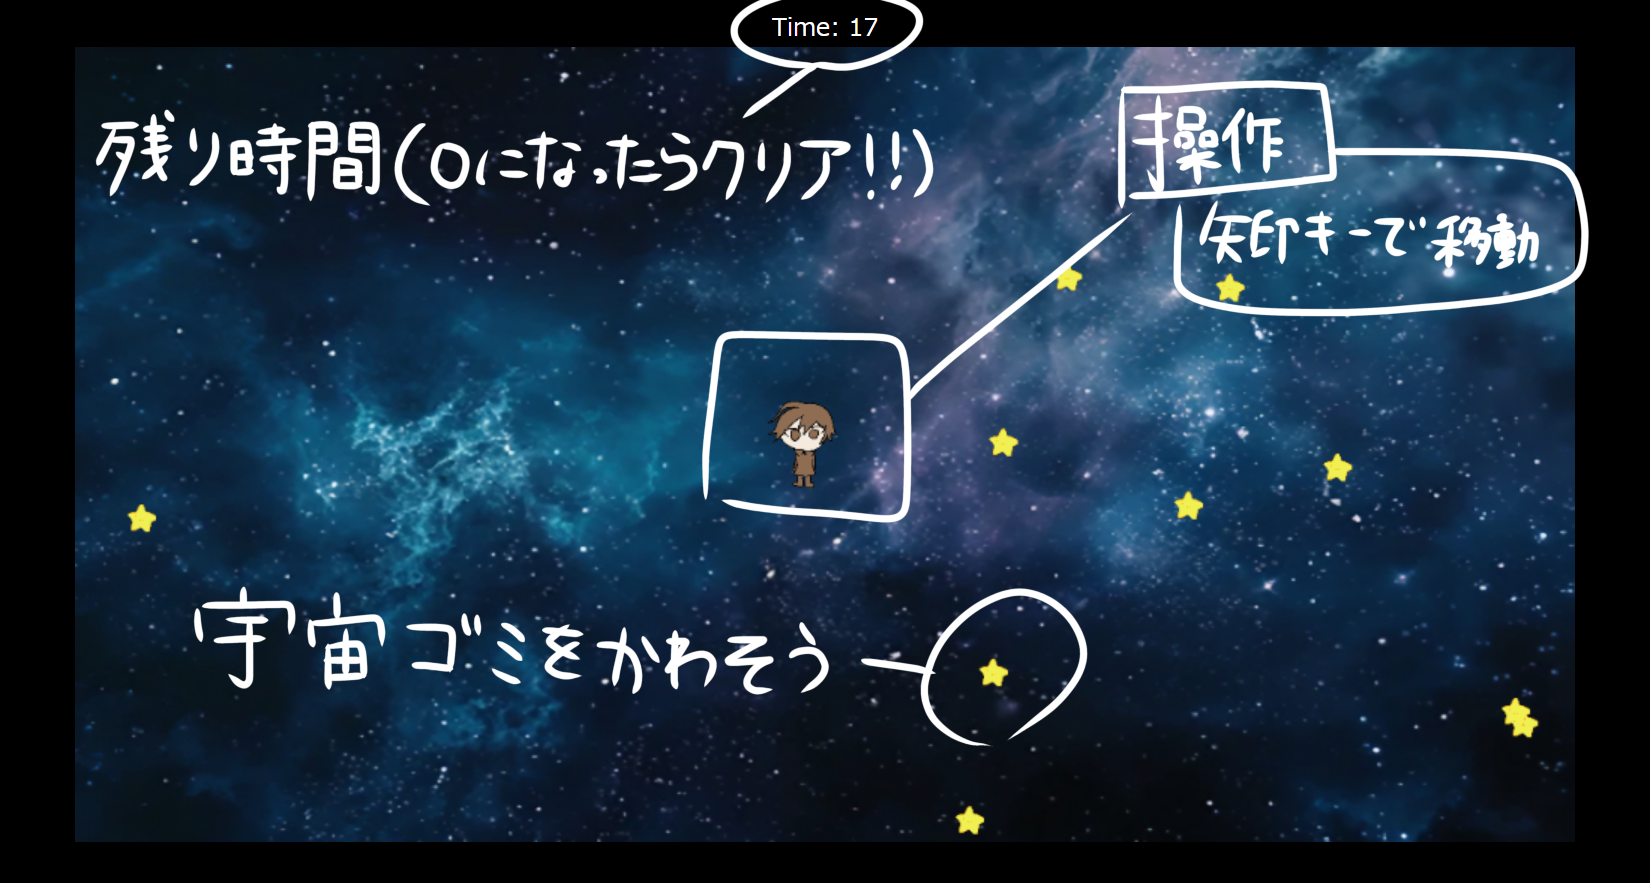
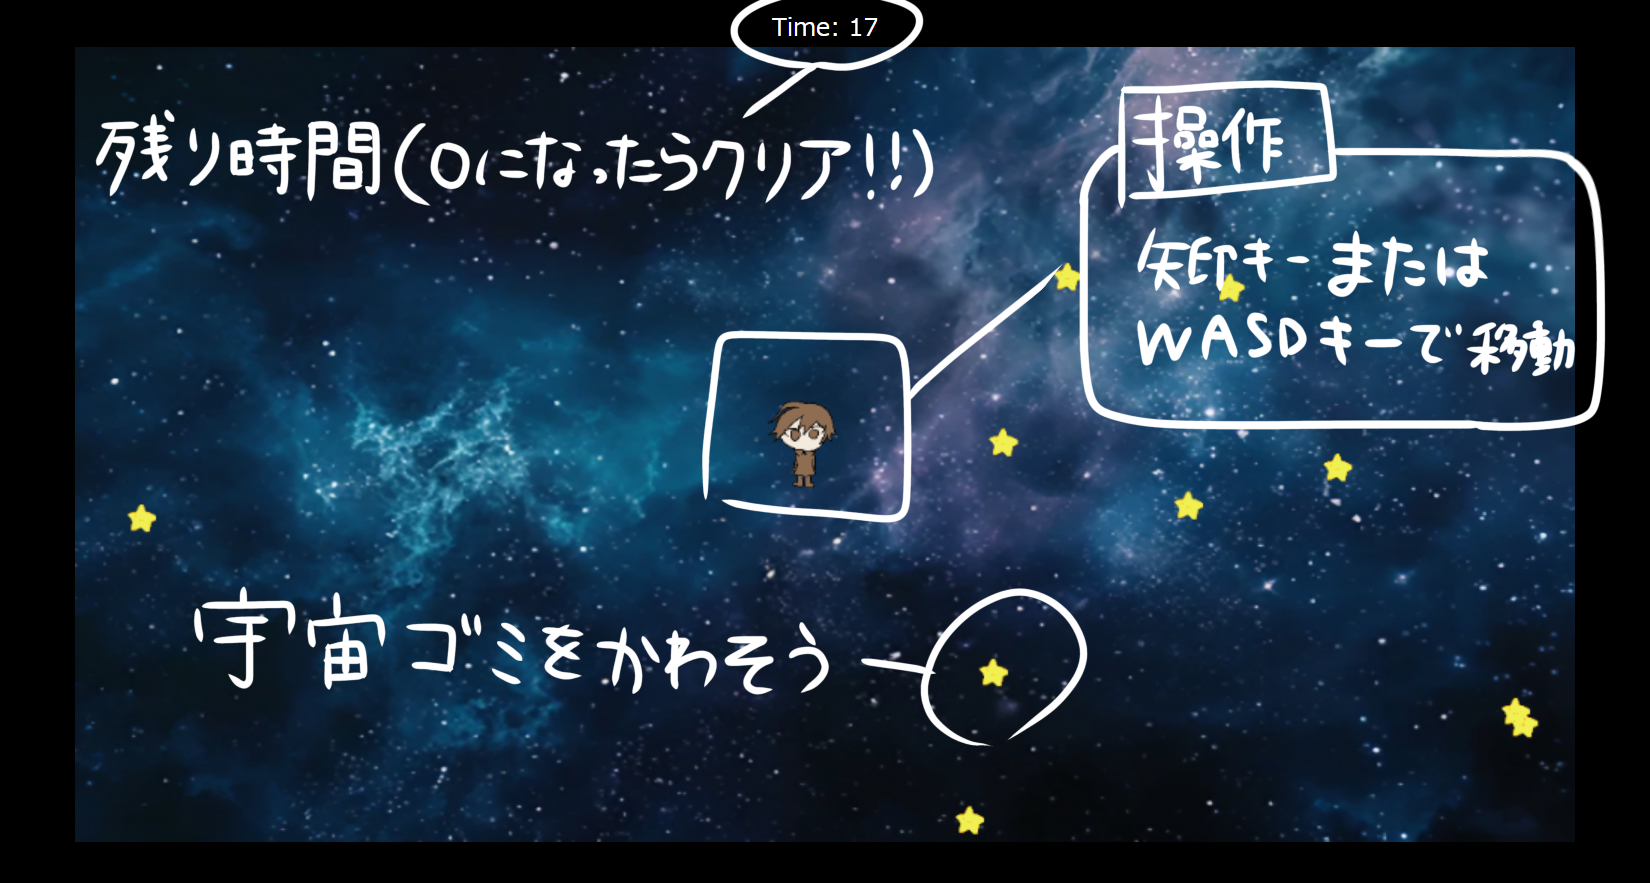
WASDキー操作&難易度選択機能を追加

Changed region(s): [[0.6491, 0.1529, 0.9891, 0.4892]]

diff --git a/start.html b/start.html
@@ -3,68 +3,11 @@
 <head>
   <meta charset="UTF-8">
   <meta name="viewport" content="width=device-width, initial-scale=1.0">
-  <style>
-    body {
-      background-image: url(img/universe_space04.png);
-      background-repeat: no-repeat;
-      background-size: cover;
-      overflow: hidden;
-      text-align: center;
-      color: #fff;
-    }
-    h1 {
-      font-size: 5em;
-      margin: 0 0 3%;
-    }
-    .container {
-      margin-top: 10%;
-    }
-    .button-container {
-      display: flex;
-      flex-direction: column;
-      align-items: center;
-    }
-    button {
-      width: 10%;
-      margin: 1%;
-      padding: 10px;
-    }
-
-    .modal {
-      display: none;
-      position: fixed;
-      top: 45%;
-      left: 50%;
-      transform: translate(-50%, -50%);
-      width: 70%;
-      height: 70%;
-      z-index: 2;
-    }
-    .modal img {
-      max-width: 100%;
-      height: auto;
-    }
-    #close {
-      position: absolute;
-      top: 95%;
-      left: 43.5%;
-      padding: 5px;
-    }
-    #overlay {
-      display: none;
-      width: 100vw;
-      height: 100vh;
-      position: absolute;
-      top: 0;
-      left: 0;
-      background: rgba(0, 0, 0, 0.6);
-      z-index: 1;
-    }
-  </style>
+  <link rel="stylesheet" href="./css/start.css">
   <title>かわせっ！！！！！</title>
 </head>
 <body>
-  <div class="container">
+  <div class="container" id="container">
     <h1>かわせっ！！！！！</h1>
     <div class="button-container">
       <button id="play">play game</button>
@@ -78,24 +21,57 @@
     <button id="close">閉じる</button>
   </div>
 
+  <div class="level-modal" id="level-modal">
+    <h2>難易度を選択してね☆</h2>
+    <div class="button-container">
+      <button id="easy" class="level-button">イージー</button>
+      <button id="normal" class="level-button">ノーマル</button>
+      <button id="hard" class="level-button">ハード</button>
+      <button id="very-hard" class="level-button">ベリーハード</button>
+    </div>
+    <button id="back">戻る</button>
+  </div>
+  
   <script>
     'use strict';
     var audios = [
       new Audio('audio/play.mp3'),
       new Audio('audio/game.mp3')
     ];
-    let playButton = document.getElementById('play');
-    let gameButton = document.getElementById('game');
-    let overlay = document.getElementById('overlay');
+    const main = document.getElementById('container');
+    const playButton = document.getElementById('play');
+    const gameButton = document.getElementById('game');
+    const levelModal = document.getElementById('level-modal');
+    const overlay = document.getElementById('overlay');
+    const levelButton = document.querySelectorAll('.level-button');
 
     // play gameが押された時
     playButton.onclick = function play(){
-      playAudio(0);
-      setTimeout(link, 1500);
+      playAudio(1);
+      main.style.display = "none";
+      levelModal.style.display = "block";
+      overlay.style.display = "block";
     }
-    function link() {
-      location.href = "game.html";
+    // 戻るボタンが押された時
+    const backButton = document.getElementById('back');
+    backButton.addEventListener("click", onOff);
+    function onOff() {
+      main.style.display = "block";
+      levelModal.style.display = "none";
+      overlay.style.display = "none";
     }
+
+    // 難易度が選択された時
+    levelButton.forEach(button => {
+      button.onclick = function level() {
+        playAudio(0);
+        const difficulty = button.id;
+        setTimeout(() => {
+          window.location.href = `game.html?difficulty=${difficulty}`;
+        }, 1500);
+      };
+    });
+
     // 遊び方が押された時
     gameButton.onclick = function game(){
       playAudio(1);
@@ -104,10 +80,10 @@
     }
 
     // モーダルウィンドウを閉じる
-    let closeButton = document.getElementById('close');
-    let modal = document.getElementById('modal');
-    closeButton.addEventListener("click", onOff);
-    function onOff() {
+    const closeButton = document.getElementById('close');
+    const modal = document.getElementById('modal');
+    closeButton.addEventListener("click", onOff2);
+    function onOff2() {
       modal.style.display = "none";
       overlay.style.display = "none";
     }

diff --git a/main.js b/main.js
@@ -1,5 +1,41 @@
 'use strict';
 
+// ページ読み込み時の処理
+let difficulty;
+document.addEventListener('DOMContentLoaded', () => {
+  const urlParams = new URLSearchParams(window.location.search);
+  difficulty = urlParams.get('difficulty');
+
+  if (difficulty) {
+    console.log(`選択された難易度: ${difficulty}`);
+    switch (difficulty) {
+      case 'easy':
+        ballSpead = 30;
+        ballMax = 7;
+        break;
+      case 'normal':
+        ballSpead = 40;
+        ballMax = 9;
+        break;
+      case 'hard':
+        ballSpead = 42;
+        ballMax = 10;
+        break;
+      case 'very-hard':
+        ballSpead = 45;
+        ballMax = 12;
+        break;
+      default:
+        ballSpead = 40;
+        ballMax = 9;
+        break;
+    }
+  } else {
+    ballSpead = 8;
+    ballMax = 9;
+  }
+});
+
 var can = document.getElementById('can');
 can.width = 1000;
 can.height = 530;
@@ -16,8 +52,8 @@ var count = document.getElementById('count');
 
 // 難易度
 var timeLeft = 20;
-var ballSpead = 8;
-var ballMax = 9;
+var ballSpead;
+var ballMax;
 
 // キャラのオブジェクト
 var character = new Object();
@@ -120,6 +156,9 @@ function main() {
       if(!clearBgm){
         playAudio(1);
         clearBgm = true;
+        if(difficulty === "very-hard") {
+          console.log("おめでとうございます！！！！！");
+        }
       }
       var textWidth = ctx.measureText("Clear!!").width;
       ctx.fillText("Clear!!", (can.width - textWidth) / 2, can.height / 2 + 30);
@@ -147,10 +186,15 @@ function createBall() {
   var ball = new Object();
   ball.img = new Image();
   ball.img.src = 'img/star.png';
-  ball.x = Math.random() * can.width;
-  ball.y = Math.random() * can.height;
-  ball.speedX = (Math.random() - 0.5) * ballSpead;
-  ball.speedY = (Math.random() - 0.5) * ballSpead;
+  const ballWidth = 20;
+  const ballHeight = 20;
+  ball.x = Math.random() * (can.width - ballWidth);
+  ball.y = Math.random() * (can.height - ballHeight);
+
+  // ランダムな速度
+  const speed = 0.1;
+  ball.speedX = (Math.random() * 2 - 1) * speed * ballSpead;
+  ball.speedY = (Math.random() * 2 - 1) * speed * ballSpead;
   balls.push(ball);
 }
 // 球体を更新する関数
@@ -175,7 +219,7 @@ function drawBalls() {
 function dis() {
   balls.forEach(ball => {
     var dis = Math.sqrt( (character.x + 35 - (ball.x + 10))**2 + (character.y + 35 - (ball.y + 10))**2 );
-    if(dis < 45) {
+    if(dis < 40) {
       gameOver = true;
     }
   });
@@ -215,7 +259,9 @@ function keydownfunc(event){
   hasInteracted = true;
   var keyCode = event.keyCode;
 
-  if (keyCode === 37 || keyCode === 38 || keyCode === 39 || keyCode === 40) {
+  const arrowKeys = [37, 38, 39, 40, 65, 87, 68, 83]
+
+  if (arrowKeys.includes(keyCode)) {
     if (audios[0].currentTime === 0) {
       playAudio(0);
     }
@@ -224,16 +270,16 @@ function keydownfunc(event){
     }
   }
 
-  if (keyCode === 37) key.left = true;
-  if (keyCode === 38) key.up = true;
-  if (keyCode === 39) key.right = true;
-  if (keyCode === 40) key.down = true;
+  if (keyCode === 37 || keyCode === 65) key.left = true;
+  if (keyCode === 38 || keyCode === 87) key.up = true;
+  if (keyCode === 39 || keyCode === 68) key.right = true;
+  if (keyCode === 40 || keyCode === 83) key.down = true;
 }
 // キーが離された時の関数
 function keyupfunc(event){
   var keyCode = event.keyCode;
-  if (keyCode === 37) key.left = false;
-  if (keyCode === 38) key.up = false;
-  if (keyCode === 39) key.right = false;
-  if (keyCode === 40) key.down = false;
+  if (keyCode === 37 || keyCode === 65) key.left = false;
+  if (keyCode === 38 || keyCode === 87) key.up = false;
+  if (keyCode === 39 || keyCode === 68) key.right = false;
+  if (keyCode === 40 || keyCode === 83) key.down = false;
 }

diff --git a/css/start.css b/css/start.css
@@ -1,0 +1,75 @@
+@charset "UTF-8";
+
+body {
+  background-image: url(../img/universe_space04.png);
+  background-repeat: no-repeat;
+  background-size: cover;
+  font-family: sans-serif;
+  overflow: hidden;
+  text-align: center;
+  color: #fff;
+}
+h1 {
+  font-size: 5em;
+  margin: 0 0 3%;
+}
+h2 {
+  font-size: 3em;
+}
+.container {
+  margin-top: 10%;
+}
+.button-container {
+  display: flex;
+  flex-direction: column;
+  align-items: center;
+}
+button {
+  width: 10%;
+  margin: 1%;
+  padding: 10px;
+}
+
+.modal {
+  display: none;
+  position: fixed;
+  top: 45%;
+  left: 50%;
+  transform: translate(-50%, -50%);
+  width: 70%;
+  height: 70%;
+  z-index: 2;
+}
+.modal img {
+  max-width: 100%;
+  height: auto;
+}
+#close {
+  position: absolute;
+  top: 95%;
+  left: 43.5%;
+  padding: 5px;
+}
+#overlay {
+  display: none;
+  width: 100vw;
+  height: 100vh;
+  position: absolute;
+  top: 0;
+  left: 0;
+  background: rgba(0, 0, 0, 0.6);
+  z-index: 1;
+}
+
+.level-modal {
+  display: none;
+  position: fixed;
+  z-index: 3;
+  transform: translate(-50%, -50%);
+  top: 45%;
+  left: 50%;
+}
+.level-modal button {
+  width: auto;
+  margin-bottom: 5%;
+}

diff --git a/game.html b/game.html
@@ -2,7 +2,7 @@
 <html lang="ja">
 <head>
   <meta charset="UTF-8">
-  <link rel="stylesheet" href="style.css">
+  <link rel="stylesheet" href="./css/style.css">
   <meta name="viewport" content="width=device-width, initial-scale=1.0">
   <title>かわせっ！！！！！</title>
 </head>
@@ -11,6 +11,6 @@
   <canvas id="can"></canvas>
   <button id="repage">戻る</button>
   <button id="restart">もう一回</button>
-  <script src="main.js"></script>
+  <script src="./main.js"></script>
 </body>
 </html>

diff --git a/css/style.css b/css/style.css
@@ -2,6 +2,7 @@
 
 body {
   text-align: center;
+  font-family: sans-serif;
   color: #fff;
   background-color: #000;
 }
@@ -10,13 +11,13 @@ body {
   display: none;
   position: absolute;
   padding: 7px 10px;
+  left: 50%;
+  transform: translate(-50%, -50%);
 }
 
 #repage {
   top: 65%;
-  left: 48%;
 }
 #restart {
   top: 75%;
-  left: 47%;
 }
